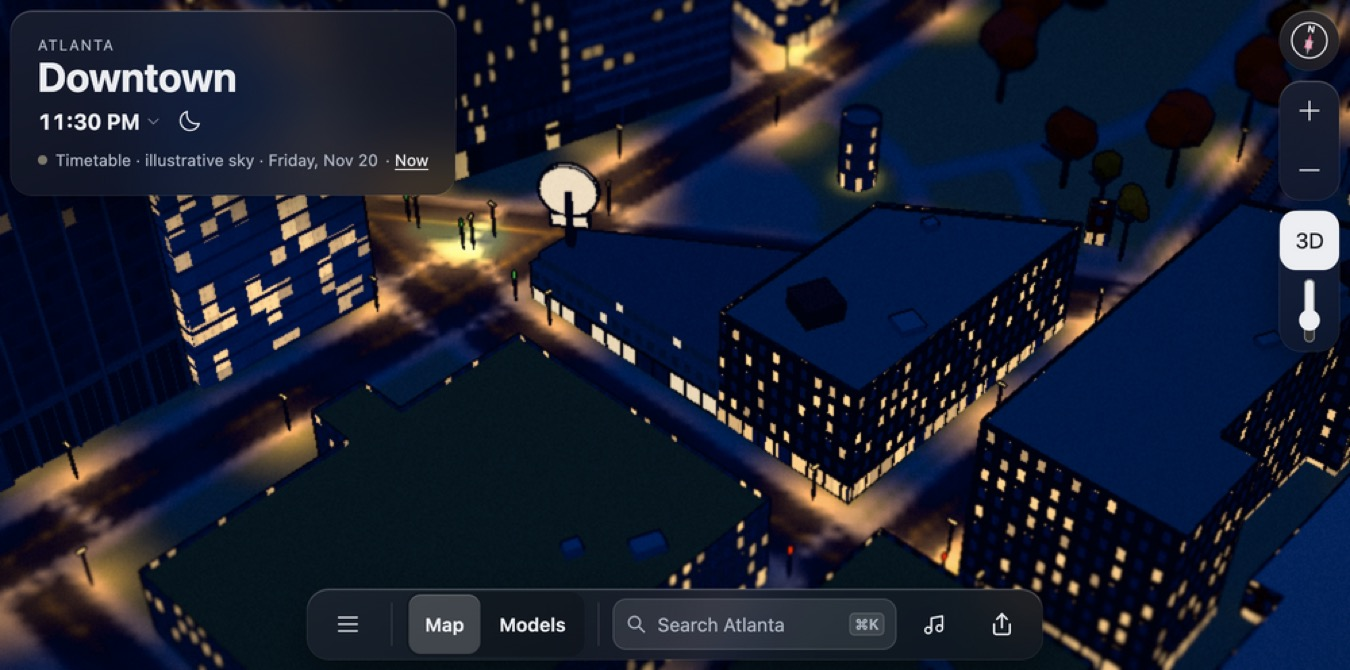
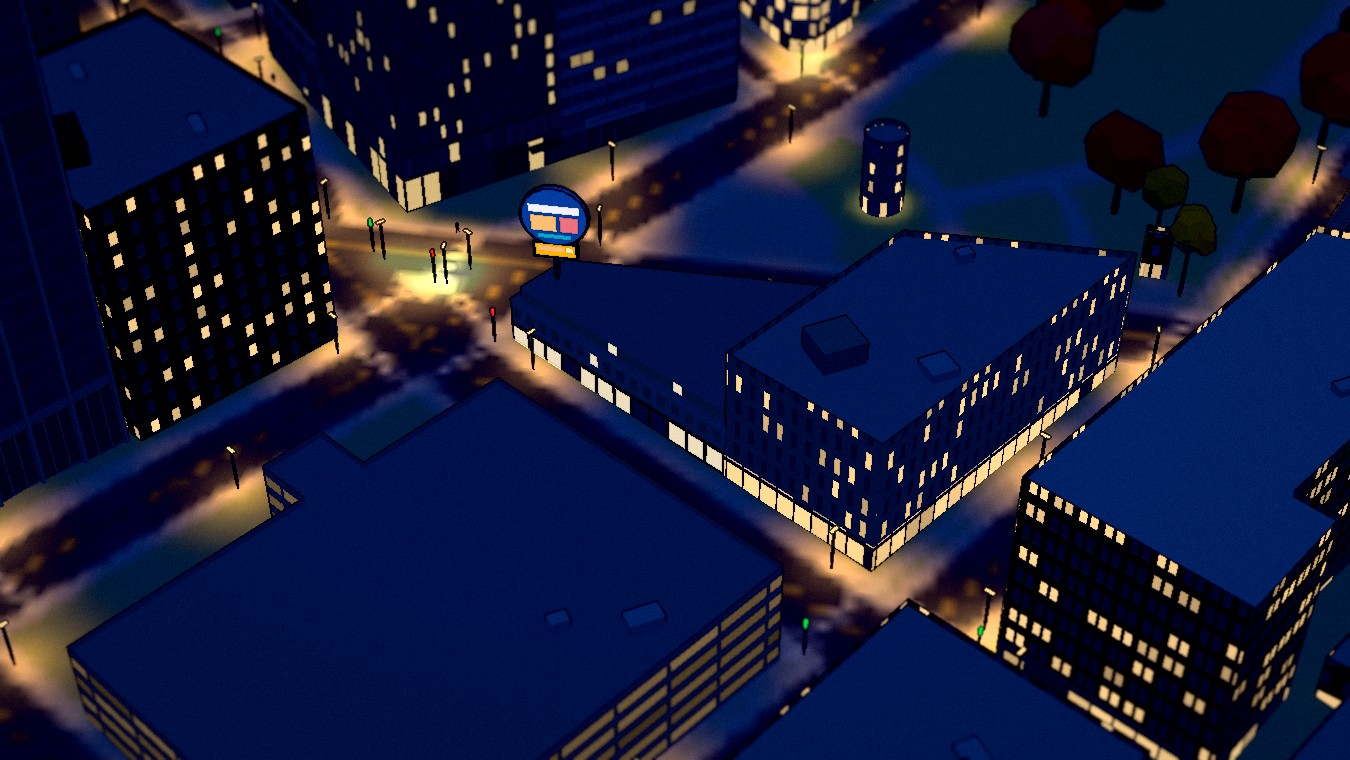
Olympia rework stills: the ad by day and floodlit at night, both faces

diff --git a/docs/log/ui/olympia-building/README.md b/docs/log/ui/olympia-building/README.md
@@ -29,3 +29,13 @@ Sources, consulted in a fresh Orca tab:
 ![The same view at 23:30](olympia-building-night.jpg)
 ![Close](olympia-building-close.jpg)
 ![Four sides](olympia-building-four-sides.jpg)
+
+## Rework stills (2026-11-27)
+
+Matched BEFORE (blank sign, `306472ea`) and AFTER (generic ad) at 11:30 and 23:30, low tier, 1350 × 760. The day and night views above now show the ad. The close view and four-side sheet still show the earlier blank sign; the building itself is unchanged.
+
+![From the south](olympia-rework-south.jpg)
+`?view=city&q=low&cam=205,-45,350,50,280` (the original money shot)
+
+![From the north, the sign's other face](olympia-rework-north.jpg)
+`?view=city&q=low&cam=190,-50,195,35,200`. The original north view in the four-side sheet is hidden by a tower, so this camera looks over it from higher up.
